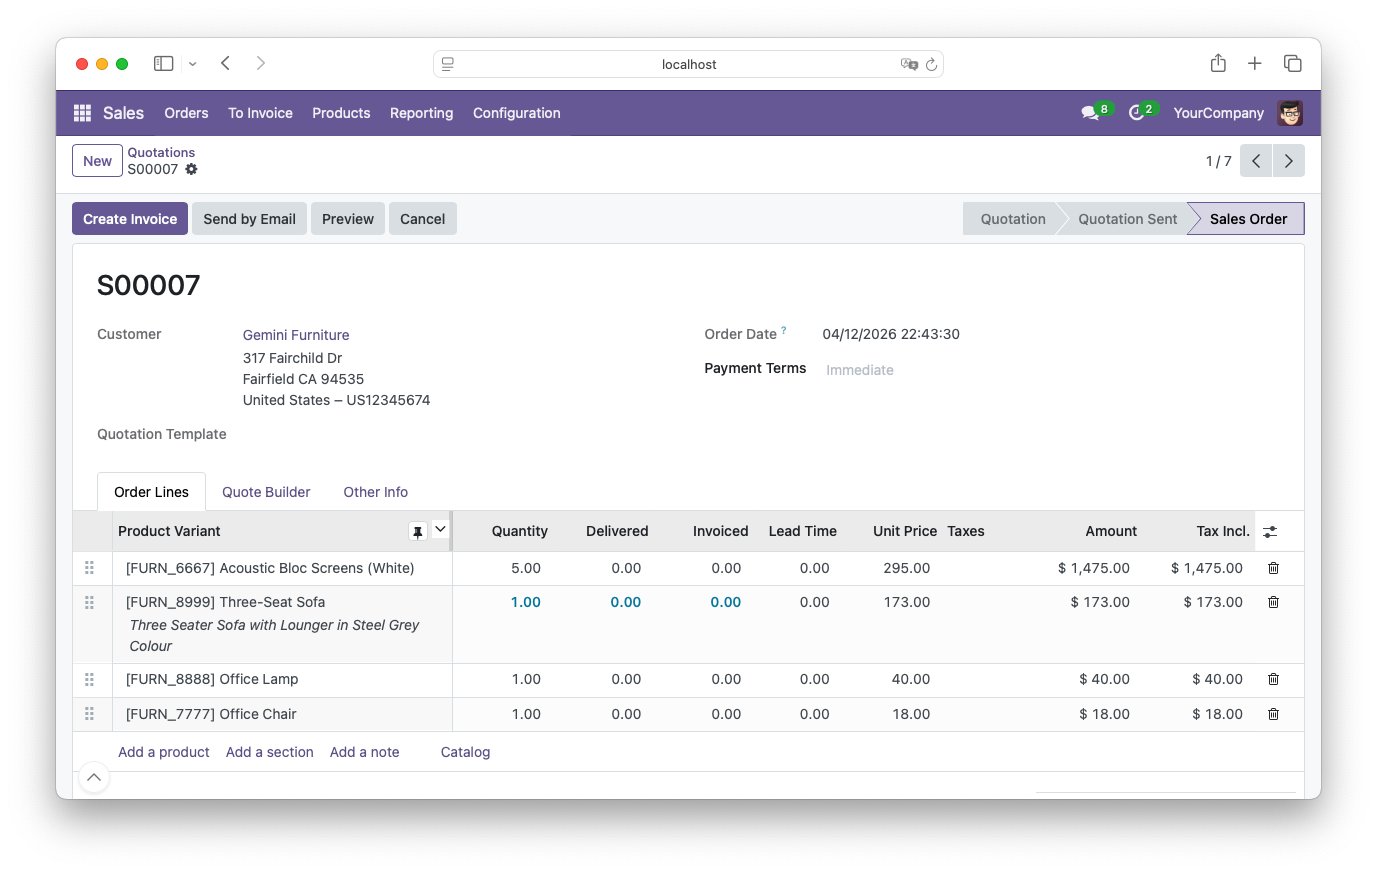
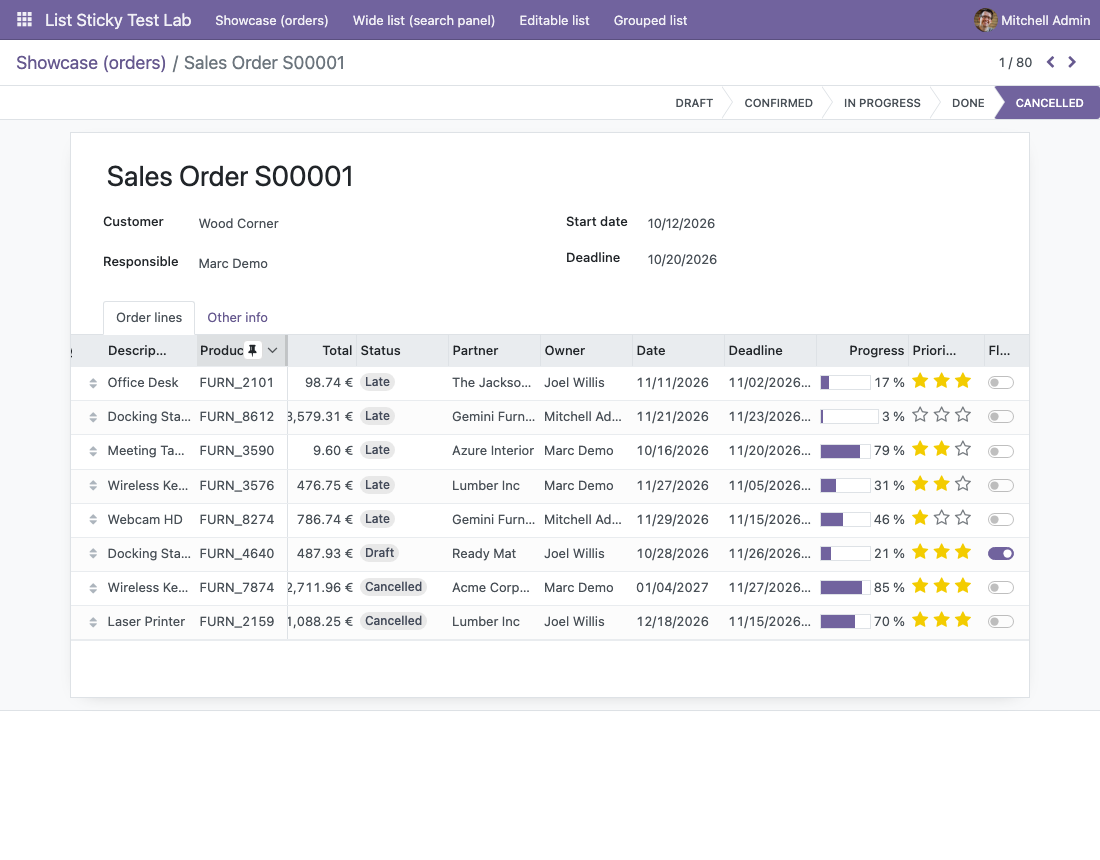
[IMP] listview_sticky_header_and_column: 16.0.0.4 - per-version demo screenshots, opaque pinned cells/headers, pin button on embedded lists; lab showcase views
Claude-Session: https://claude.ai/code/session_01MswwjzxQJzBYDNJzdTwzsA

diff --git a/listview_sticky_header_and_column/static/description/index.html b/listview_sticky_header_and_column/static/description/index.html
@@ -92,15 +92,15 @@
     </div>
 
     <h2 class="font-weight-bold mt-5 mb-3" style="font-size: 30px; color: #4A2F45;">Pin a column in any list</h2>
-    <p class="mb-4" style="font-size: 16px;">The pin button shows up when you hover a header. Here the first columns stay in place while the rest of the table scrolls.</p>
+    <p class="mb-4" style="font-size: 16px;">The pin button shows up when you hover a header. Here the Code and Customer columns stay in place while the other columns scroll, and the header row stays visible.</p>
     <div class="text-center mb-4">
-        <img src="screenshot_1.png" alt="Quotations list with the pin button on a column header and the first columns frozen" class="img-fluid rounded shadow"/>
+        <img src="screenshot_1.png" alt="Orders list with the pin button on the Customer column header and the first columns frozen while the table is scrolled" class="img-fluid rounded shadow"/>
     </div>
 
     <h2 class="font-weight-bold mt-5 mb-3" style="font-size: 30px; color: #4A2F45;">Also inside forms</h2>
-    <p class="mb-4" style="font-size: 16px;">Lists embedded in a form, such as the order lines of a quotation, can be pinned as well. Each list remembers its own pinned column.</p>
+    <p class="mb-4" style="font-size: 16px;">Lists embedded in a form, such as the order lines of an order, can be pinned as well. Each list remembers its own pinned column.</p>
     <div class="text-center mb-4">
-        <img src="screenshot_2.png" alt="Order lines list inside a sales order form with the product column pinned" class="img-fluid rounded shadow"/>
+        <img src="screenshot_2.png" alt="Order lines list inside a sales order form with the Product column pinned" class="img-fluid rounded shadow"/>
     </div>
 
     <h2 class="font-weight-bold mt-5 mb-3" style="font-size: 30px; color: #4A2F45;">Requirements &amp; Installation</h2>
@@ -132,6 +132,15 @@
 
     <h2 class="font-weight-bold mt-5 mb-3" style="font-size: 30px; color: #4A2F45;">Changelog</h2>
     <p class="mb-3" style="font-size: 16px;">Module releases, newest first.</p>
+    <div class="card mb-3"><div class="card-body">
+        <div class="row">
+            <div class="col-md-3 mb-2">
+                <h4 class="font-weight-bold mt-0 mb-1" style="font-size: 18px; color: #875A7B;">0.4</h4>
+                <p class="text-muted mb-0" style="font-size: 13px;">2026-11-05</p>
+            </div>
+            <div class="col-md-9"><p class="mb-0" style="font-size: 14px;">Pinned cells and header cells are now opaque on every version (scrolled text could show through them). The pin icon is visible again on the newest Odoo release, and the pin button appears on lists embedded in forms. Rows being edited keep their frozen columns on older versions.</p></div>
+        </div>
+    </div></div>
     <div class="card mb-3"><div class="card-body">
         <div class="row">
             <div class="col-md-3 mb-2">

diff --git a/lab/listview_sticky_test_lab/static/tests/tours/lab_tours.js b/lab/listview_sticky_test_lab/static/tests/tours/lab_tours.js
@@ -141,6 +141,8 @@ tour.register("lshc_lab_form_lists", { test: true }, [
                 Array.prototype.forEach.call(document.head.querySelectorAll(STYLE), function (s) { owners[s.getAttribute("data-owner")] = 1; });
                 check(Object.keys(owners).length === 1, "form: expected 1 owner style, got " + Object.keys(owners).length);
                 check(getComputedStyle(small.querySelector("thead th:nth-child(2)")).position !== "sticky", "form: pin leaked into the small list");
+                // pinned header cells must be opaque, or the scrolled column titles show through them
+                check(getComputedStyle(medium.querySelector("thead th:nth-child(3)")).backgroundColor !== "rgba(0, 0, 0, 0)", "form: pinned header cell is transparent");
                 check(getComputedStyle(medium.querySelector("thead th:nth-child(3)")).position === "sticky", "form: medium col not sticky");
                 // the medium list is wide: scroll horizontally inside it and check the pinned column stays at the left edge
                 var mscroll = scroller(tableOf(medium));

diff --git a/listview_sticky_header_and_column/static/src/scss/main.scss b/listview_sticky_header_and_column/static/src/scss/main.scss
@@ -24,7 +24,8 @@
   }
 }
 
-.o_list_view thead > tr > th {
+.o_list_view thead > tr > th,
+.o_list_renderer thead > tr > th {
   &:hover {
     .display-on-hover {
       display: block !important;

diff --git a/lab/listview_sticky_test_lab/tools/gen_lab.py b/lab/listview_sticky_test_lab/tools/gen_lab.py
@@ -1,5 +1,5 @@
 """Generate the listview_sticky_test_lab addon (models + views) so the field/column lists stay consistent."""
-import os, sys, textwrap
+import os, re, sys, textwrap
 
 OUT = sys.argv[1]
 os.makedirs(OUT + '/models', exist_ok=True)
@@ -265,10 +265,61 @@ search = '''    <record id="lshc_test_record_view_search" model="ir.ui.view">
     </record>
 '''
 
+SHOWLINES = MEDIUM
+SHOWLINES_W = {'name': '170px', 'product': '120px', 'partner_id': '170px', 'user_id': '150px', 'deadline': '170px', 'state': '110px'}
+SHOWCASE_W = {'code': '90px', 'partner_id': '190px', 'user_id': '150px', 'category_id': '110px', 'state': '125px', 'date_end': '125px'}
+SHOWCASE = ['code', 'partner_id', 'user_id', 'category_id', 'state', 'priority', 'date_start', 'date_end', 'currency_id', 'amount', 'amount_tax', 'amount_total', 'qty', 'progress', 'active_toggle']
+showcase_form = '''    <record id="lshc_test_record_view_form_showcase" model="ir.ui.view">
+        <field name="name">lshc.test.record.form.showcase</field>
+        <field name="model">lshc.test.record</field>
+        <field name="arch" type="xml">
+            <form string="Order">
+                <header>
+                    <field name="state" widget="statusbar" options="{'clickable': '1'}"/>
+                </header>
+                <sheet>
+                    <div class="oe_title">
+                        <h1><field name="name" placeholder="Name"/></h1>
+                    </div>
+                    <group>
+                        <group>
+                            <field name="partner_id"/>
+                            <field name="user_id"/>
+                        </group>
+                        <group>
+                            <field name="date_start"/>
+                            <field name="date_end"/>
+                        </group>
+                    </group>
+                    <notebook>
+                        <page string="Order lines" name="lines">
+%s
+                        </page>
+                        <page string="Other info" name="other">
+                            <group>
+                                <group>
+                                    <field name="category_id"/>
+                                    <field name="city"/>
+                                </group>
+                                <group>
+                                    <field name="currency_id"/>
+                                    <field name="amount_total"/>
+                                </group>
+                            </group>
+                        </page>
+                    </notebook>
+                </sheet>
+            </form>
+        </field>
+    </record>
+''' % re.sub(r'<field name="(%s)"' % '|'.join(SHOWLINES_W), lambda m: '<field name="%s" width="%s"' % (m.group(1), SHOWLINES_W[m.group(1)]),
+                 o2m('line_medium_ids', 'medium', SHOWLINES, 28, editable='bottom'))
+
 views = '<?xml version="1.0" encoding="utf-8"?>\n<odoo>\n' + list_view('lshc_test_record_view_list', 'lshc.test.record.list', ALLR) \
     + list_view('lshc_test_record_view_list_editable', 'lshc.test.record.list.editable',
                 [n for n in ALLR if n not in ('image', 'notes', 'follower_ids', 'rating_pie', 'color_hex', 'website_copy', 'datetime_due', 'score_a', 'score_b', 'score_c', 'serial', 'ref_char')],
                 editable='top') \
-    + form + search + '</odoo>\n'
+    + re.sub(r'<field name="(%s)"' % '|'.join(SHOWCASE_W), lambda m: '<field name="%s" width="%s"' % (m.group(1), SHOWCASE_W[m.group(1)]),
+             list_view('lshc_test_record_view_list_showcase', 'lshc.test.record.list.showcase', SHOWCASE).replace(' widget="CopyClipboardChar"', '')) + form + showcase_form + search + '</odoo>\n'
 open(OUT + '/views/lshc_test_views.xml', 'w').write(views)
 print('columns main list:', len(ALLR), 'editable:', len([n for n in ALLR if n not in ('image', 'notes', 'follower_ids', 'rating_pie', 'color_hex', 'website_copy', 'datetime_due', 'score_a', 'score_b', 'score_c', 'serial', 'ref_char')]), 'large line:', len(LARGE))

diff --git a/lab/listview_sticky_test_lab/models/models.py b/lab/listview_sticky_test_lab/models/models.py
@@ -138,14 +138,14 @@ class LshcTestRecord(models.Model):
     def _table_query(self):
         return self._fake_sql("""WITH ref AS (
             SELECT ARRAY(SELECT id FROM res_users WHERE active ORDER BY id) AS users,
-                   ARRAY(SELECT id FROM res_partner WHERE active ORDER BY id LIMIT 300) AS partners,
+                   ARRAY(SELECT id FROM res_partner WHERE active AND is_company AND id NOT IN (SELECT partner_id FROM res_users UNION SELECT partner_id FROM res_company) ORDER BY id LIMIT 300) AS partners,
                    ARRAY(SELECT id FROM res_country ORDER BY id LIMIT 80) AS countries,
                    (SELECT currency_id FROM res_company ORDER BY id LIMIT 1) AS currency_id
         )
         SELECT g.id AS id,
             g.id * 10 AS sequence,
-            (ARRAY['Order', 'Contract', 'Project', 'Ticket', 'Shipment', 'Invoice', 'Quote', 'Campaign'])[1 + mod(abs(hashtext(g.id::text || 'n1')), 8)] || ' ' || (ARRAY['Nguyen', 'Tran', 'Smith', 'Garcia', 'Tanaka', 'Martin', 'Silva', 'Kim', 'Rossi', 'Muller'])[1 + mod(abs(hashtext(g.id::text || 'n2')), 10)] || ' #' || g.id AS name,
-            'LAB-' || lpad(g.id::text, 5, '0') AS code,
+            (ARRAY['Quotation', 'Sales Order', 'Delivery', 'Invoice', 'Contract'])[1 + mod(abs(hashtext(g.id::text || 'n1')), 5)] || ' S' || lpad(g.id::text, 5, '0') AS name,
+            'S' || lpad(g.id::text, 5, '0') AS code,
             1 + mod(abs(hashtext(g.id::text || 'cat')), 8) AS category_id,
             (ARRAY['draft', 'confirmed', 'progress', 'done', 'cancel'])[1 + mod(abs(hashtext(g.id::text || 'st')), 5)] AS state,
             (mod(abs(hashtext(g.id::text || 'pr')), 4))::text AS priority,
@@ -262,15 +262,15 @@ class LshcTestLine(models.Model):
     def _table_query(self):
         return self._fake_sql("""WITH ref AS (
             SELECT ARRAY(SELECT id FROM res_users WHERE active ORDER BY id) AS users,
-                   ARRAY(SELECT id FROM res_partner WHERE active ORDER BY id LIMIT 300) AS partners,
+                   ARRAY(SELECT id FROM res_partner WHERE active AND is_company AND id NOT IN (SELECT partner_id FROM res_users UNION SELECT partner_id FROM res_company) ORDER BY id LIMIT 300) AS partners,
                    ARRAY(SELECT id FROM res_country ORDER BY id LIMIT 80) AS countries,
                    (SELECT currency_id FROM res_company ORDER BY id LIMIT 1) AS currency_id
         )
         SELECT g.id AS id, g.record_id AS record_id, g.kind AS kind,
             g.qty AS qty, g.price AS price, g.discount AS discount,
             g.n * 10 AS sequence,
-            (ARRAY['Order', 'Contract', 'Project', 'Ticket', 'Shipment', 'Invoice', 'Quote', 'Campaign'])[1 + mod(abs(hashtext(g.id::text || 'l1')), 8)] || ' line ' || g.n AS name,
-            (ARRAY['Desk', 'Chair', 'Lamp', 'Cable', 'Monitor', 'Keyboard', 'Router', 'Printer'])[1 + mod(abs(hashtext(g.id::text || 'l2')), 8)] || ' ' || (mod(abs(hashtext(g.id::text || 'l2n')), 900) + 100) AS product,
+            (ARRAY['Office Desk', 'Ergonomic Chair', 'Desk Lamp', 'Monitor 27 inch', 'Wireless Keyboard', 'Docking Station', 'Network Router', 'Laser Printer', 'Standing Desk', 'Meeting Table', 'Storage Cabinet', 'Webcam HD'])[1 + mod(abs(hashtext(g.id::text || 'l1')), 12)] AS name,
+            'FURN_' || (1000 + mod(abs(hashtext(g.id::text || 'l2n')), 9000)) AS product,
             round((g.qty * g.price * (1 - g.discount / 100.0))::numeric, 2) AS total,
             ref.currency_id AS currency_id,
             (ARRAY['draft', 'ok', 'late', 'cancel'])[1 + mod(abs(hashtext(g.id::text || 'ls')), 4)] AS state,

diff --git a/lab/listview_sticky_test_lab/tools/models_part.py b/lab/listview_sticky_test_lab/tools/models_part.py
@@ -25,8 +25,8 @@ RM = R + [('write_date', 'fields.Datetime()', 'Last update', {})]   # needed by 
 
 RS = {
  'sequence': "g.id * 10",
- 'name': "%s || ' ' || %s || ' #' || g.id" % (PICK(THING, 'n1'), PICK(LAST, 'n2')),
- 'code': "'LAB-' || lpad(g.id::text, 5, '0')",
+ 'name': "%s || ' S' || lpad(g.id::text, 5, '0')" % PICK(['Quotation', 'Sales Order', 'Delivery', 'Invoice', 'Contract'], 'n1'),
+ 'code': "'S' || lpad(g.id::text, 5, '0')",
  'category_id': "1 + mod(%s, 8)" % H('cat'),
  'state': PICK(['draft', 'confirmed', 'progress', 'done', 'cancel'], 'st'),
  'priority': "(mod(%s, 4))::text" % H('pr'),
@@ -78,8 +78,8 @@ RS = {
 }
 LS = {
  'sequence': "g.n * 10",
- 'name': PICK(THING, 'l1') + " || ' line ' || g.n",
- 'product': PICK(['Desk', 'Chair', 'Lamp', 'Cable', 'Monitor', 'Keyboard', 'Router', 'Printer'], 'l2') + " || ' ' || (mod(%s, 900) + 100)" % H('l2n'),
+ 'name': PICK(['Office Desk', 'Ergonomic Chair', 'Desk Lamp', 'Monitor 27 inch', 'Wireless Keyboard', 'Docking Station', 'Network Router', 'Laser Printer', 'Standing Desk', 'Meeting Table', 'Storage Cabinet', 'Webcam HD'], 'l1'),
+ 'product': "'FURN_' || (1000 + mod(%s, 9000))" % H('l2n'),
  'total': "round((g.qty * g.price * (1 - g.discount / 100.0))::numeric, 2)",
  'currency_id': "ref.currency_id",
  'state': PICK(['draft', 'ok', 'late', 'cancel'], 'ls'),
@@ -147,7 +147,7 @@ def sql_cols(specs, mapping, skip=()):
 
 REF_CTE = """WITH ref AS (
             SELECT ARRAY(SELECT id FROM res_users WHERE active ORDER BY id) AS users,
-                   ARRAY(SELECT id FROM res_partner WHERE active ORDER BY id LIMIT 300) AS partners,
+                   ARRAY(SELECT id FROM res_partner WHERE active AND is_company AND id NOT IN (SELECT partner_id FROM res_users UNION SELECT partner_id FROM res_company) ORDER BY id LIMIT 300) AS partners,
                    ARRAY(SELECT id FROM res_country ORDER BY id LIMIT 80) AS countries,
                    (SELECT currency_id FROM res_company ORDER BY id LIMIT 1) AS currency_id
         )"""

diff --git a/lab/listview_sticky_test_lab/tools/lab_tours_steps.py b/lab/listview_sticky_test_lab/tools/lab_tours_steps.py
@@ -65,6 +65,8 @@ FORM = r'''async function () {
                 Array.prototype.forEach.call(document.head.querySelectorAll(STYLE), function (s) { owners[s.getAttribute("data-owner")] = 1; });
                 check(Object.keys(owners).length === 1, "form: expected 1 owner style, got " + Object.keys(owners).length);
                 check(getComputedStyle(small.querySelector("thead th:nth-child(2)")).position !== "sticky", "form: pin leaked into the small list");
+                // pinned header cells must be opaque, or the scrolled column titles show through them
+                check(getComputedStyle(medium.querySelector("thead th:nth-child(3)")).backgroundColor !== "rgba(0, 0, 0, 0)", "form: pinned header cell is transparent");
                 check(getComputedStyle(medium.querySelector("thead th:nth-child(3)")).position === "sticky", "form: medium col not sticky");
                 // the medium list is wide: scroll horizontally inside it and check the pinned column stays at the left edge
                 var mscroll = scroller(tableOf(medium));

diff --git a/listview_sticky_header_and_column/__manifest__.py b/listview_sticky_header_and_column/__manifest__.py
@@ -16,7 +16,7 @@
     # Check https://github.com/odoo/odoo/blob/12.0/odoo/addons/base/data/ir_module_category_data.xml
     # for the full list
     'category': 'Tools',
-    'version': '16.0.0.3',
+    'version': '16.0.0.4',
     # any module necessary for this one to work correctly
     'depends': ['base', 'web'],
     # always loaded

diff --git a/listview_sticky_header_and_column/changelog/16.0.0.4.md b/listview_sticky_header_and_column/changelog/16.0.0.4.md
@@ -1,0 +1,6 @@
+# 16.0.0.4
+
+Module `listview_sticky_header_and_column` (Odoo 16.0). Previous version: `16.0.0.3`.
+
+- Pinned body cells get an opaque background (they were transparent, scrolled text showed through). The pin button shows on lists embedded in a form (`.o_list_renderer` hover rule).
+- Found with the `lab/listview_sticky_test_lab` test bed (pin + scroll checks on wide fake lists).
